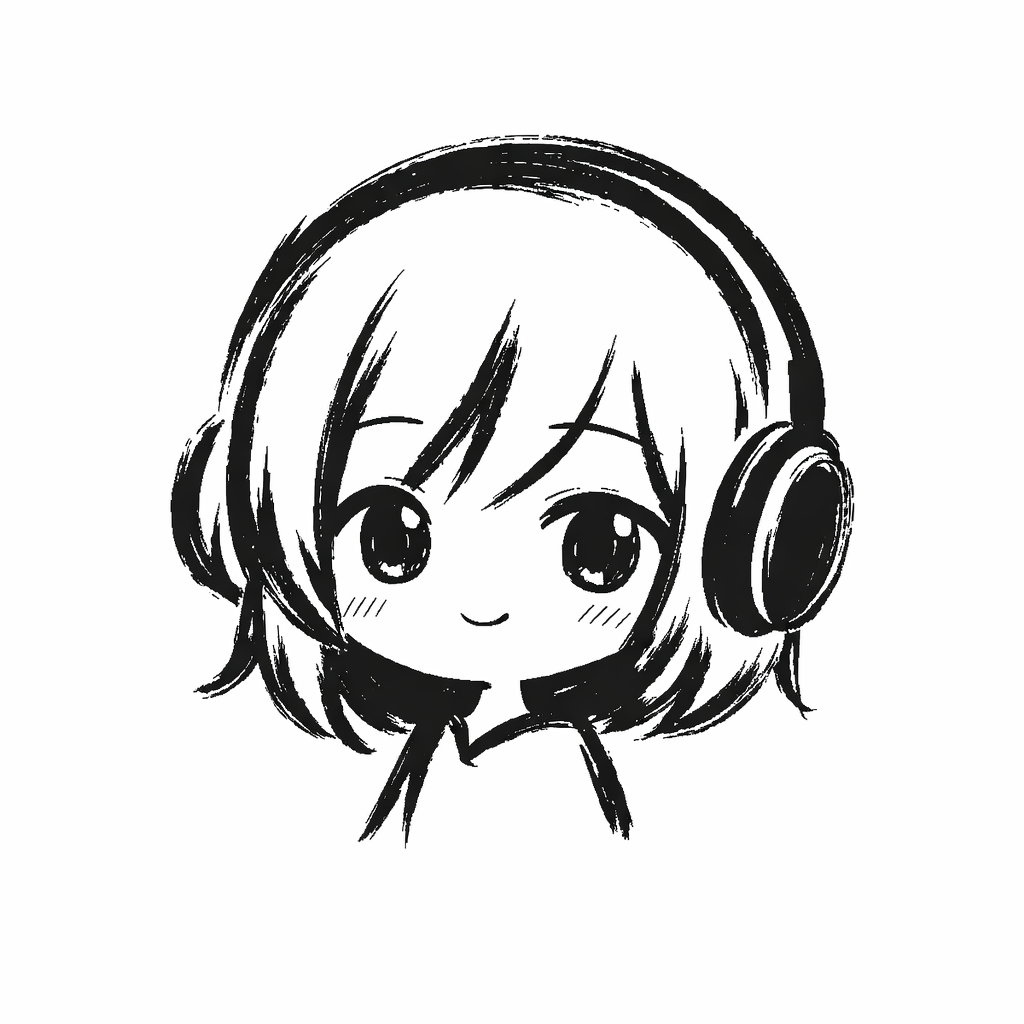
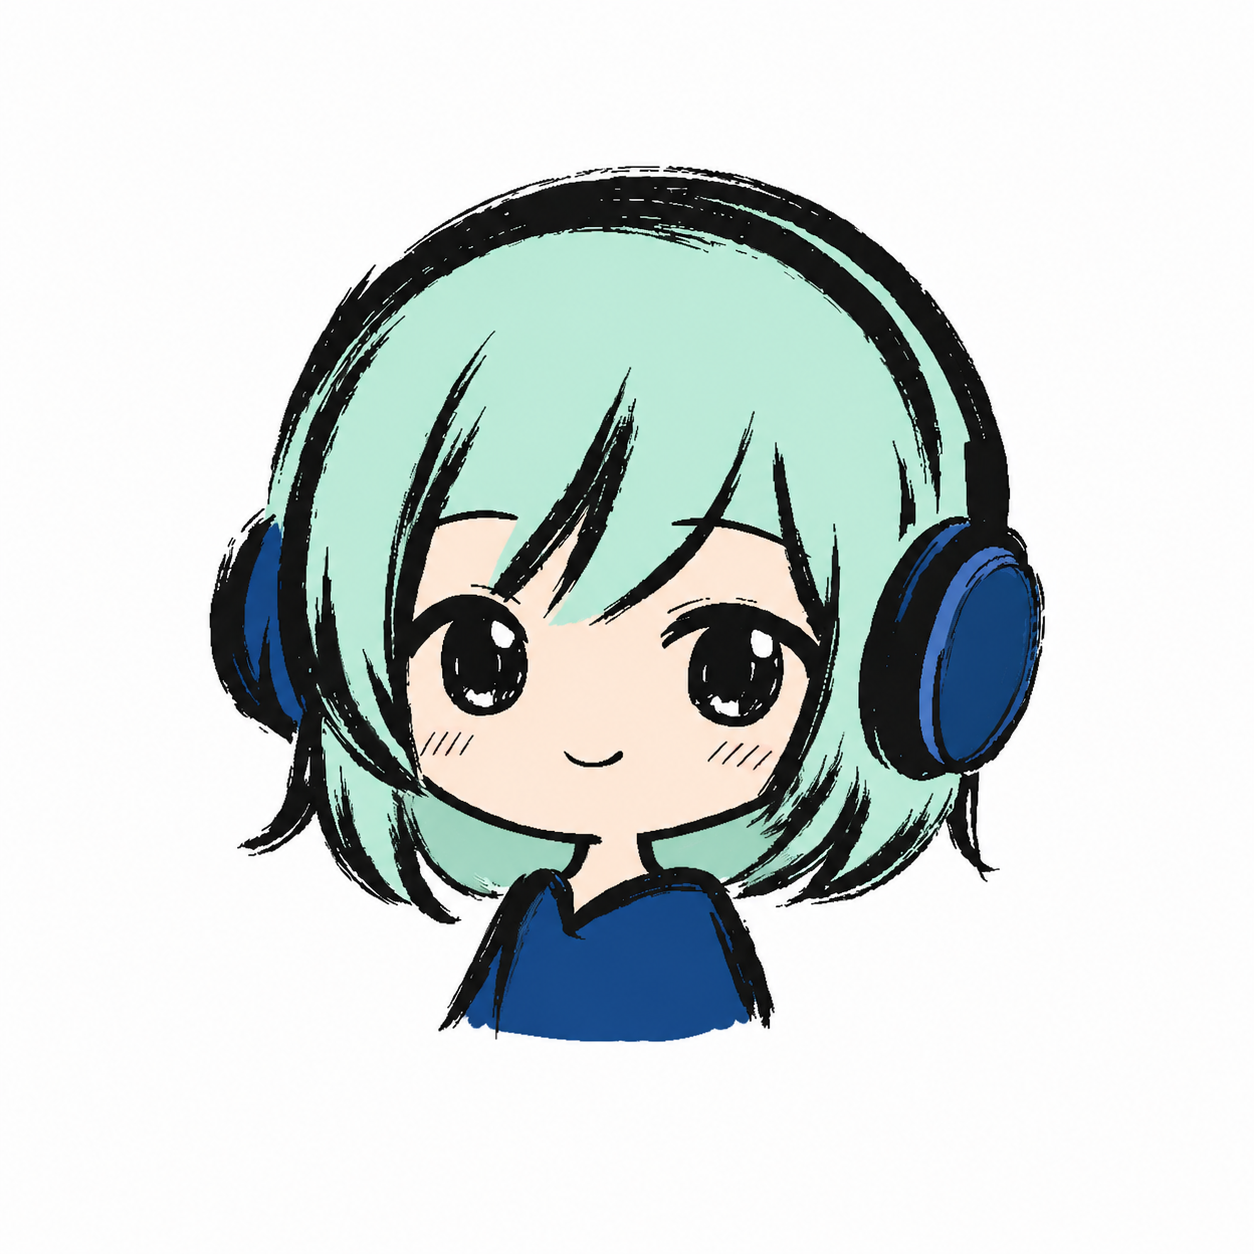
come on zen

Changed region(s): [[0.1562, 0.125, 0.8438, 0.8438]]

diff --git a/src/components/loop/AttemptPhase.tsx b/src/components/loop/AttemptPhase.tsx
@@ -1211,7 +1211,7 @@ export default function AttemptPhase({ sessionId, session, diagnosing, onEndAtte
                               style={{ backgroundColor: '#FFFFFF', boxShadow: '0 2px 8px rgba(26,24,20,0.08)' }}
                             >
                               {/* eslint-disable-next-line @next/next/no-img-element */}
-                              <img src="/mascot/talking-1.png" alt="" className="w-12 h-12 object-contain" />
+                              <img src="/mascot/neutral.png" alt="" className="w-12 h-12 object-contain" />
                             </div>
                           </div>
                         </div>
@@ -1387,7 +1387,7 @@ export default function AttemptPhase({ sessionId, session, diagnosing, onEndAtte
                           style={{ backgroundColor: '#FFFFFF', boxShadow: '0 2px 8px rgba(26,24,20,0.08)' }}
                         >
                           {/* eslint-disable-next-line @next/next/no-img-element */}
-                          <img src="/mascot/talking-1.png" alt="" className="w-12 h-12 object-contain" />
+                          <img src="/mascot/neutral.png" alt="" className="w-12 h-12 object-contain" />
                         </div>
                       </div>
 

diff --git a/src/components/mascot/Mascot.tsx b/src/components/mascot/Mascot.tsx
@@ -15,15 +15,19 @@ const SIZE_MAP: Record<MascotSize, number> = {
   xl: 240,
 }
 
+// All mascot expressions and talking frames currently point at the same
+// neutral image. The Mascot component still accepts `expression` / `isTalking`
+// props from existing call sites so behavior is unchanged — just visually
+// always neutral until per-expression art is restored.
 const EXPRESSION_FILES: Record<string, string> = {
   neutral: '/mascot/neutral.png',
-  smiling: '/mascot/smiling.png',
-  frowning: '/mascot/frowning.png',
-  winking: '/mascot/winking.png',
-  'talking-0': '/mascot/talking-0.png',
-  'talking-1': '/mascot/talking-1.png',
-  'talking-2': '/mascot/talking-2.png',
-  'talking-3': '/mascot/talking-3.png',
+  smiling: '/mascot/neutral.png',
+  frowning: '/mascot/neutral.png',
+  winking: '/mascot/neutral.png',
+  'talking-0': '/mascot/neutral.png',
+  'talking-1': '/mascot/neutral.png',
+  'talking-2': '/mascot/neutral.png',
+  'talking-3': '/mascot/neutral.png',
 }
 
 // Talking cycle: 0 → 1 → 2 → 3 → 1 (bounce-back)

diff --git a/src/app/page.tsx b/src/app/page.tsx
@@ -60,27 +60,19 @@ export default function OnboardingPage() {
       className="min-h-screen flex flex-col"
       style={{ backgroundColor: '#F5F0EB' }}
     >
-      {/* MIRAI wordmark — always visible */}
+      {/* Kombu wordmark — always visible */}
       <div className="px-8 pt-10 pb-0 shrink-0">
         <p
-          className="text-[#1B4F8A]"
           style={{
-            fontFamily: 'Shippori Mincho, serif',
-            fontSize: '22px',
-            letterSpacing: '-0.01em',
+            fontFamily: 'Geist, sans-serif',
+            fontSize: '24px',
+            fontWeight: 500,
+            letterSpacing: '0.15em',
+            textTransform: 'uppercase',
+            color: '#bbead6',
           }}
         >
-          未来
-        </p>
-        <p
-          className="text-[#9E9892] mt-0.5"
-          style={{
-            fontFamily: 'DM Sans, sans-serif',
-            fontSize: '10px',
-            letterSpacing: '0.2em',
-          }}
-        >
-          MIRAI
+          KOMBU
         </p>
       </div>
 

diff --git a/src/components/layout/Navbar.tsx b/src/components/layout/Navbar.tsx
@@ -38,17 +38,18 @@ export default function Navbar() {
   return (
     <>
       <header className="sticky top-0 z-40 px-4 py-3 flex items-center justify-between bg-[#FDFBF8] border-b border-[#E0DAD2]">
-        <Link href="/dashboard" className="flex items-center gap-2">
+        <Link href="/dashboard" className="flex items-center">
           <span
-            className="font-semibold"
-            style={{ fontFamily: 'Shippori Mincho, serif', fontSize: '20px', color: '#1B4F8A' }}
+            style={{
+              fontFamily: 'Geist, sans-serif',
+              fontSize: '22px',
+              fontWeight: 500,
+              letterSpacing: '0.15em',
+              textTransform: 'uppercase',
+              color: '#bbead6',
+            }}
           >
-            未来
-          </span>
-          <span
-            style={{ fontFamily: 'DM Sans, sans-serif', fontSize: '10px', letterSpacing: '0.15em', color: '#9E9892' }}
-          >
-            MIRAI
+            KOMBU
           </span>
         </Link>
 

diff --git a/src/app/collection/page.tsx b/src/app/collection/page.tsx
@@ -1,6 +1,7 @@
 'use client'
 
 import { useState, useMemo } from 'react'
+import Link from 'next/link'
 import { useAppStore } from '@/store/useAppStore'
 import { GRADE_1_KANJI } from '@/data/kyouiku-kanji'
 import KanjiGridView from '@/components/collection/KanjiGridView'
@@ -37,6 +38,13 @@ export default function CollectionPage() {
         className="sticky top-0 z-20 px-6 pt-10 pb-0"
         style={{ backgroundColor: '#F5F0EB' }}
       >
+        <Link
+          href="/dashboard"
+          className="inline-flex items-center gap-1 mb-3 text-[#9E9892] hover:text-[#6B6560] transition-colors"
+          style={{ fontFamily: 'DM Sans', fontSize: '12px' }}
+        >
+          ← Dashboard
+        </Link>
         <p
           style={{
             fontFamily: 'DM Sans',

diff --git a/src/components/loop/MilestoneCard.tsx b/src/components/loop/MilestoneCard.tsx
@@ -97,8 +97,17 @@ export default function MilestoneCard({ session, onTryNew }: MilestoneCardProps)
 
             {/* Colophon mark */}
             <div className="text-center mt-5">
-              <span className="text-[12px]" style={{ fontFamily: 'Shippori Mincho', color: '#9E9892' }}>
-                未来
+              <span
+                style={{
+                  fontFamily: 'Geist, sans-serif',
+                  fontSize: '11px',
+                  fontWeight: 500,
+                  letterSpacing: '0.15em',
+                  textTransform: 'uppercase',
+                  color: '#bbead6',
+                }}
+              >
+                KOMBU
               </span>
             </div>
           </div>

diff --git a/src/app/layout.tsx b/src/app/layout.tsx
@@ -5,9 +5,9 @@ import { MascotProvider } from '@/contexts/MascotContext'
 import "./globals.css";
 
 export const metadata: Metadata = {
-  title: "Zlang - Learn Through What You Love",
-  description: "Revolutionary AI-powered language learning. Japanese ↔ English through anime, NBA, memes, and real culture.",
-  keywords: ["language learning", "Japanese", "English", "AI", "anime", "culture"],
+  title: "Kombu - Learn Through What You Love",
+  description: "AI-powered Japanese ↔ English language learning through real conversations and what you actually care about.",
+  keywords: ["language learning", "Japanese", "English", "AI", "kombu"],
 };
 
 export default function RootLayout({

diff --git a/src/styles/design-system.css b/src/styles/design-system.css
@@ -1,4 +1,4 @@
-@import url('https://fonts.googleapis.com/css2?family=Noto+Sans+JP:wght@300;400;500;700&family=Shippori+Mincho:wght@400;500;600;700&family=DM+Sans:ital,opsz,wght@0,9..40,300;0,9..40,400;0,9..40,500;0,9..40,600;1,9..40,300&family=DM+Mono:wght@400;500&display=swap');
+@import url('https://fonts.googleapis.com/css2?family=Geist:wght@400;500;600&family=Noto+Sans+JP:wght@300;400;500;700&family=Shippori+Mincho:wght@400;500;600;700&family=DM+Sans:ital,opsz,wght@0,9..40,300;0,9..40,400;0,9..40,500;0,9..40,600;1,9..40,300&family=DM+Mono:wght@400;500&display=swap');
 
 :root {
   /* Palette */

diff --git a/src/components/onboarding/LanguageStep.tsx b/src/components/onboarding/LanguageStep.tsx
@@ -49,7 +49,7 @@ export function LanguageStep({ value, onChange, onContinue }: Props) {
           className="text-[#9E9892] text-sm leading-relaxed"
           style={{ fontFamily: 'DM Sans, sans-serif' }}
         >
-          MIRAI adapts everything — vocabulary, dialogue style, and difficulty
+          Kombu adapts everything — vocabulary, dialogue style, and difficulty
           — to your learning direction.
         </p>
       </div>

diff --git a/src/components/blocks/DialogueTranslateBlockRenderer.tsx b/src/components/blocks/DialogueTranslateBlockRenderer.tsx
@@ -471,7 +471,7 @@ export function DialogueTranslateBlockRenderer({ block, onComplete }: Props) {
                   >
                     {/* eslint-disable-next-line @next/next/no-img-element */}
                     <img
-                      src="/mascot/talking-1.png"
+                      src="/mascot/neutral.png"
                       alt=""
                       className="w-12 h-12 object-contain"
                     />
